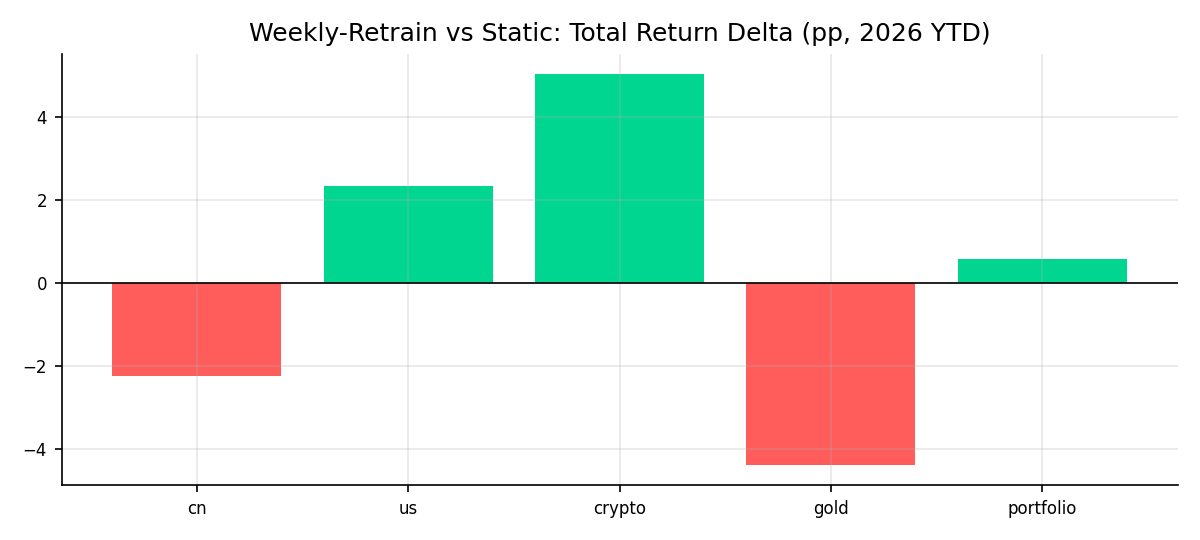
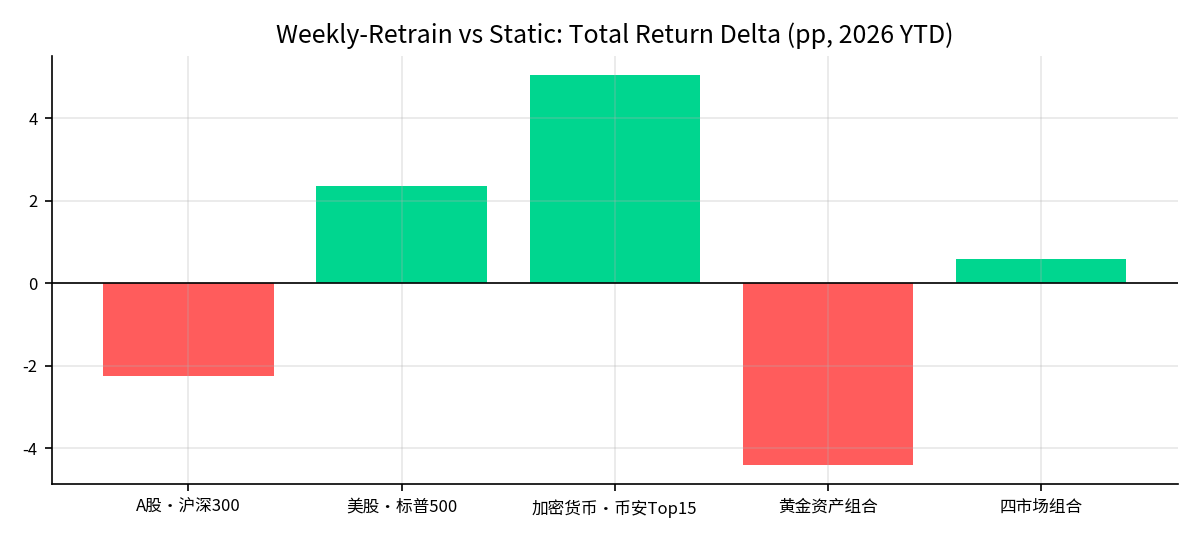
fix: PNG图例中文字体修复(Noto CJK入库+matplotlib注册), markets.png扩展为全部变体

diff --git a/scripts/04_build_site.py b/scripts/04_build_site.py
@@ -182,24 +182,59 @@ def main():
         (DOCS / f"data/{k}.json").write_text(json.dumps(v, ensure_ascii=False))
     print("docs/data 写入:", [p.name for p in (DOCS / "data").iterdir()])
 
-    # ---------------- PNG 图表(英文标签, 避免远端缺中文字体)
+    # ---------------- PNG 图表(注册 CJK 字体渲染中文图例; 缺字体自动回退英文标签)
     try:
         import matplotlib
 
         matplotlib.use("Agg")
+        from matplotlib import font_manager
         import matplotlib.pyplot as plt
+
+        cjk_ok = False
+        for fp in [ROOT / "configs" / "fonts" / "NotoSansCJKsc-Regular.otf",
+                   ROOT / "data" / "fonts" / "NotoSansCJKsc-Regular.otf",
+                   Path.home() / "fonts" / "NotoSansCJKsc-Regular.otf"]:
+            if fp.exists():
+                try:
+                    font_manager.fontManager.addfont(str(fp))
+                    cjk_ok = True
+                    break
+                except Exception:  # noqa: BLE001
+                    pass
+        print(f"PNG 中文字体: {'Noto Sans CJK SC 已注册' if cjk_ok else '未找到, 图例回退英文'}", flush=True)
+        EN_LABELS = {
+            "buyhold": "Buy&Hold", "static": "Static (train once)", "monthly": "Monthly retrain",
+            "weekly": "Weekly retrain", "gru_static": "GRU (GPU)", "linear_static": "Linear OLS",
+            "linear_weekly": "Linear weekly", "ridge_static": "Ridge (L2)", "mlp_static": "MLP (GPU)",
+            "alstm_static": "ALSTM (GPU)", "strat_base": "Strat: TopK equal", "strat_dropout": "TopK-Dropout",
+            "strat_riskparity": "Risk parity", "strat_voltarget": "Vol target 20%",
+            "strat_timing": "Trend timing", "strat_combo": "Combo",
+        }
+        MKT_EN = {"cn": "CN CSI300", "us": "US SP500", "crypto": "Crypto BinanceTop15", "gold": "Gold basket"}
+        if cjk_ok:
+            plt.rcParams.update({"font.family": ["Noto Sans CJK SC", "DejaVu Sans"],
+                                 "axes.unicode_minus": False})
+            label = lambda v: VARIANT_LABELS.get(v, v)
+            mkt_name = lambda m: CFG["markets"][m]["name"]
+        else:
+            plt.rcParams.update({"font.family": ["DejaVu Sans"], "axes.unicode_minus": False})
+            label = lambda v: EN_LABELS.get(v, v)
+            mkt_name = lambda m: MKT_EN.get(m, m)
 
         plt.rcParams.update({"figure.dpi": 150, "axes.grid": True, "grid.alpha": 0.3,
                              "axes.spines.top": False, "axes.spines.right": False})
         colors = {"buyhold": "#8a8f98", "static": "#4c8dff", "monthly": "#ffb02e", "weekly": "#00d68f",
-                  "gru_static": "#b47aff"}
+                  "gru_static": "#b47aff", "linear_static": "#7fd3ff", "linear_weekly": "#00b4d8",
+                  "ridge_static": "#ffe08a", "mlp_static": "#c9a2ff", "alstm_static": "#ff8fd0",
+                  "strat_base": "#9aa7ff", "strat_dropout": "#6f8dff", "strat_riskparity": "#4fd1c5",
+                  "strat_voltarget": "#f6ad55", "strat_timing": "#fc8181", "strat_combo": "#ed64a6"}
 
         # 1. 组合净值
         fig, ax = plt.subplots(figsize=(9, 4.5))
         for v in ["buyhold", "static", "monthly", "gru_static", "weekly"]:
             if v in port:
                 nav = port[v]
-                ax.plot(nav.index, nav.values, label=VARIANT_LABELS.get(v, v) or v,
+                ax.plot(nav.index, nav.values, label=label(v),
                         color=colors.get(v), lw=1.8 if v == "weekly" else 1.2)
         ax.set_title("Portfolio (Equal-Weight 4 Markets) 2026 YTD")
         ax.legend(fontsize=8)
@@ -207,21 +242,21 @@ def main():
         fig.savefig(DOCS / "assets" / "portfolio.png")
         plt.close(fig)
 
-        # 2. 各市场 weekly vs static vs buyhold
+        # 2. 各市场全部变体净值
         mkts = [m for m in markets_json if len(markets_json[m]["variants"]) >= 2]
         if mkts:
             fig, axes = plt.subplots(2, 2, figsize=(11, 7))
             for ax, m in zip(axes.flat, mkts):
                 for v, vd in markets_json[m]["variants"].items():
                     s = pd.Series(dict(vd["nav"]), dtype=float)
-                    ax.plot(s.index, s.values, label=vd["label"] or v, color=colors.get(v),
+                    ax.plot(s.index, s.values, label=label(v), color=colors.get(v),
                             lw=1.8 if v == "weekly" else 1.1)
-                ax.set_title(f"{m}: {markets_json[m]['name']}", fontsize=10)
-                ax.legend(fontsize=7)
+                ax.set_title(f"{m}: {mkt_name(m)}", fontsize=10)
+                ax.legend(fontsize=6, ncol=2)
                 ax.tick_params(labelsize=7)
             for ax in axes.flat[len(mkts):]:
                 ax.set_visible(False)
-            fig.suptitle("Per-Market NAV 2026 YTD (weekly-retrain vs static vs buy&hold)", fontsize=11)
+            fig.suptitle("Per-Market NAV 2026 YTD (all variants)", fontsize=11)
             fig.tight_layout()
             fig.savefig(DOCS / "assets" / "markets.png")
             plt.close(fig)
@@ -229,8 +264,8 @@ def main():
         # 3. 增益柱状图
         if len(gains) > 1:
             fig, ax = plt.subplots(figsize=(8, 3.6))
-            names = list(gains)
-            vals = [gains[n]["return_delta"] * 100 for n in names]
+            names = [gains[n]["name"] if cjk_ok and "name" in gains[n] else n for n in gains]
+            vals = [gains[n]["return_delta"] * 100 for n in gains]
             ax.bar(names, vals, color=["#00d68f" if x > 0 else "#ff5c5c" for x in vals])
             ax.axhline(0, color="k", lw=0.8)
             ax.set_title("Weekly-Retrain vs Static: Total Return Delta (pp, 2026 YTD)")
